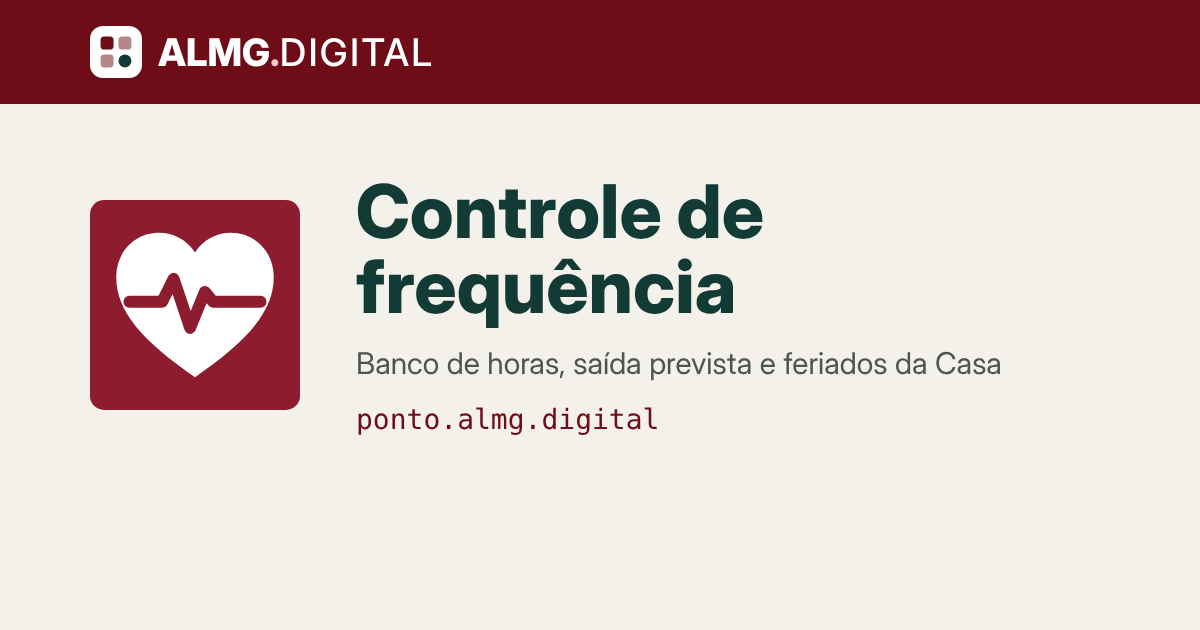
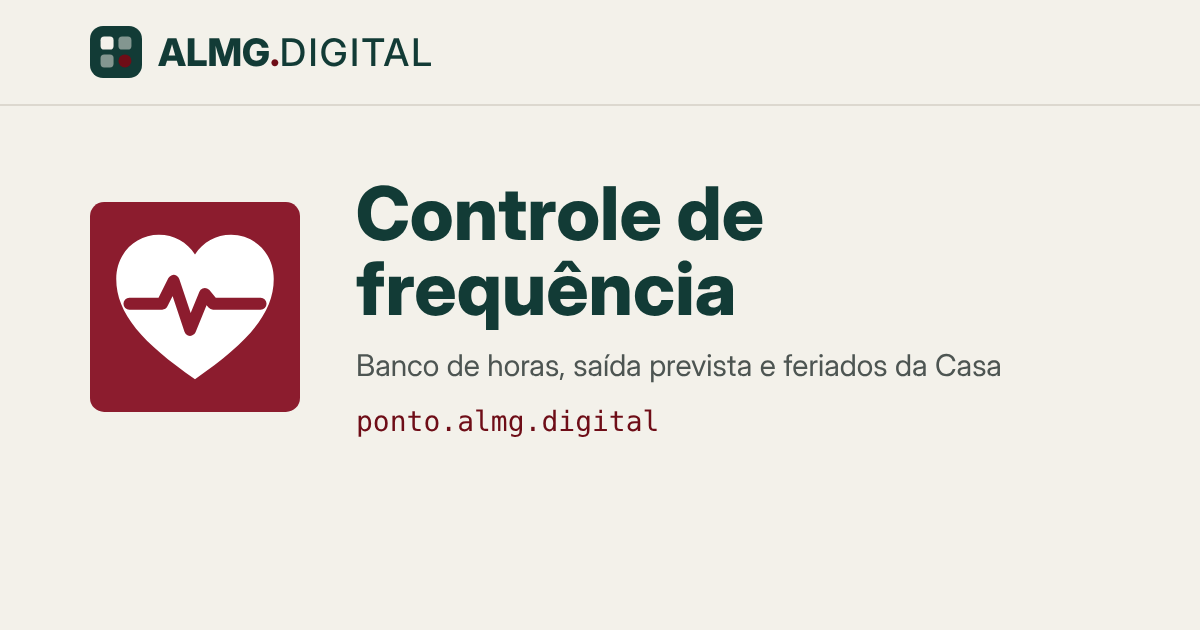
Add files via upload

diff --git a/index.html b/index.html
@@ -16,7 +16,7 @@
 <meta property="og:image:height" content="630">
 <meta property="og:locale" content="pt_BR">
 <meta name="twitter:card" content="summary_large_image">
-<meta name="theme-color" content="#8c1c2e">
+<meta name="theme-color" content="#f3f1ea">
 <link rel="preconnect" href="https://fonts.googleapis.com">
 <link rel="stylesheet" href="https://fonts.googleapis.com/css2?family=Bricolage+Grotesque:opsz,wght@12..96,600;12..96,800&family=IBM+Plex+Sans:wght@400;500;600&family=IBM+Plex+Mono:wght@400;500;600&display=swap">
 <style>
@@ -42,12 +42,12 @@ body{background:var(--bg);color:var(--ink);font-family:var(--f-body);font-size:1
 .wrap{max-width:1080px;margin:0 auto;padding-block:20px 48px;padding-left:max(16px,env(safe-area-inset-left,0px));padding-right:max(16px,env(safe-area-inset-right,0px));display:grid;gap:18px}
 header.top{display:flex;flex-wrap:wrap;align-items:flex-end;justify-content:space-between;gap:12px}
 .brand{display:grid;gap:14px}
-.band{background:#6e0d17;color:#fff}
+.band{background:#f3f1ea;color:#123b36;border-bottom:1px solid #dcd8cf}
 .bandin{max-width:1080px;margin:0 auto;padding-block:12px;padding-left:max(16px,env(safe-area-inset-left,0px));padding-right:max(16px,env(safe-area-inset-right,0px))}
-.brandbar{display:inline-flex;align-items:center;gap:10px;text-decoration:none;color:#fff}
+.brandbar{display:inline-flex;align-items:center;gap:10px;text-decoration:none;color:#123b36}
 .brandbar .mk{width:30px;height:30px}
 .wordmark{font-family:var(--f-display);font-weight:800;font-size:17px;letter-spacing:.01em}
-.wordmark i{font-style:normal;color:#f4c9cd} .wordmark span{font-weight:500;letter-spacing:.06em}
+.wordmark i{font-style:normal;color:#6e0d17} .wordmark span{font-weight:500;letter-spacing:.06em}
 .apptitle{display:flex;align-items:center;gap:14px}
 .apptitle .tile{width:48px;height:48px;flex:none}
 .apptitle .sub{display:block;color:var(--muted);font-size:13.5px;margin-top:2px}
@@ -129,7 +129,7 @@ footer{color:var(--muted);font-size:12.5px;display:flex;flex-wrap:wrap;gap:6px 1
 
 </head>
 <body>
-<div class="band"><div class="bandin"><a class="brandbar" href="https://almg.digital" aria-label="ALMG.DIGITAL, todas as ferramentas"><svg viewBox="0 0 64 64" class="mk" aria-hidden="true"><rect width="64" height="64" rx="16" fill="#fff"/><rect x="13" y="13" width="16" height="16" rx="4.5" fill="#6e0d17"/><rect x="35" y="13" width="16" height="16" rx="4.5" fill="#6e0d17" opacity=".5"/><rect x="13" y="35" width="16" height="16" rx="4.5" fill="#6e0d17" opacity=".5"/><rect x="35" y="35" width="16" height="16" rx="8" fill="#123b36"/></svg><span class="wordmark">ALMG<i>.</i><span>DIGITAL</span></span></a></div></div>
+<div class="band"><div class="bandin"><a class="brandbar" href="https://almg.digital" aria-label="ALMG.DIGITAL, todas as ferramentas"><svg viewBox="0 0 64 64" class="mk" aria-hidden="true"><rect width="64" height="64" rx="16" fill="#123b36"/><rect x="13" y="13" width="16" height="16" rx="4.5" fill="#f3f1ea"/><rect x="35" y="13" width="16" height="16" rx="4.5" fill="#f3f1ea" opacity=".5"/><rect x="13" y="35" width="16" height="16" rx="4.5" fill="#f3f1ea" opacity=".5"/><rect x="35" y="35" width="16" height="16" rx="8" fill="#6e0d17"/></svg><span class="wordmark">ALMG<i>.</i><span>DIGITAL</span></span></a></div></div>
 <div class="wrap">
   <header class="top">
     <div class="brand">
